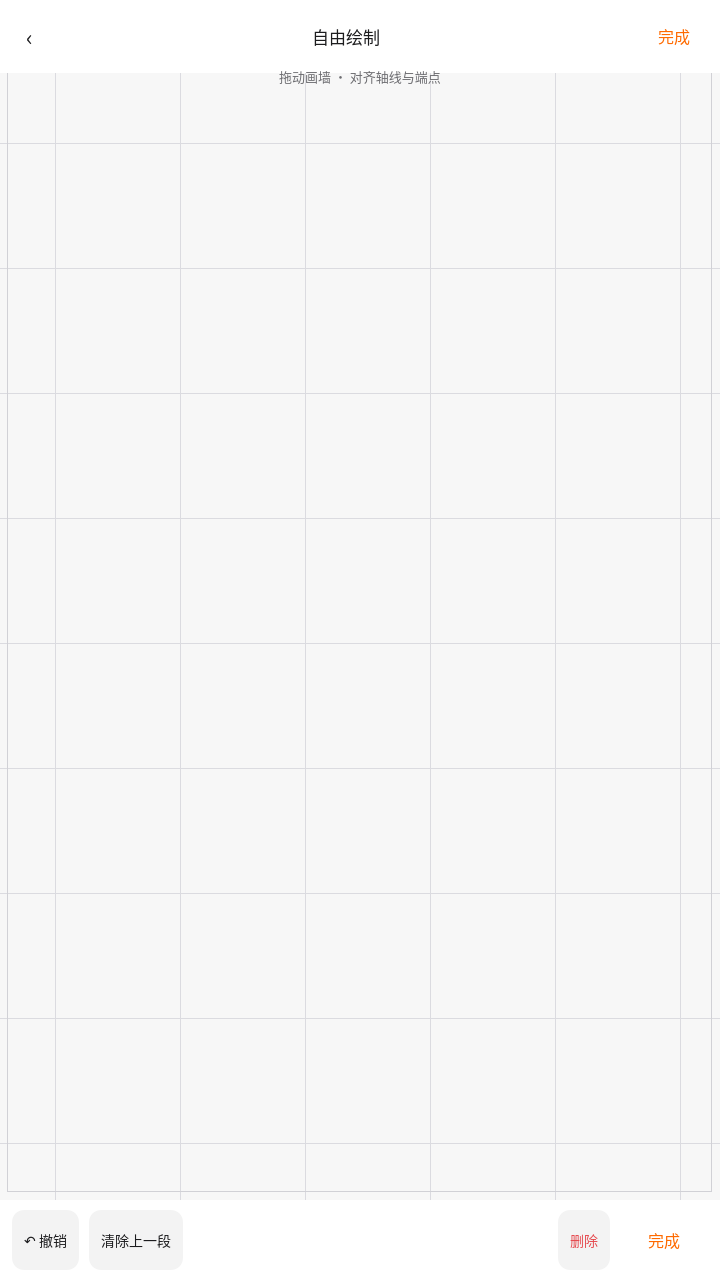
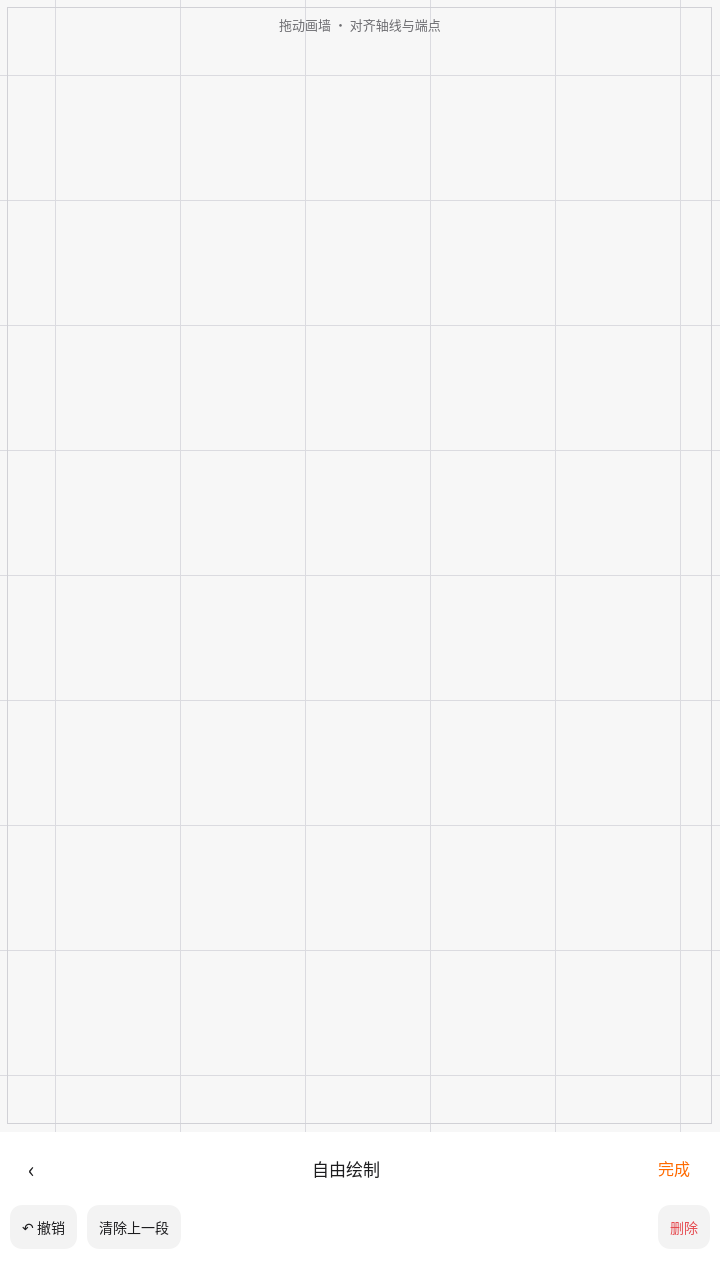
fix(draw): move free-draw toolbar to bottom
Put back, title, 完成, and draw tools in one bottom bar with nav
safe padding so the canvas is not blocked at the top.

diff --git a/docs/screenshots/free_draw/README.md b/docs/screenshots/free_draw/README.md
@@ -5,8 +5,8 @@
 | File | Screen |
 |------|--------|
 | [01_new_plan.png](./01_new_plan.png) | 新建户型 with 自由绘制 (no toast) |
-| [02_blank_canvas.png](./02_blank_canvas.png) | Empty draw mode |
-| [03_rectangle.png](./03_rectangle.png) | Closed 4000×3000 mm rectangle |
+| [02_blank_canvas.png](./02_blank_canvas.png) | Empty draw mode — chrome at the **bottom** |
+| [03_rectangle.png](./03_rectangle.png) | Closed 4000×3000 mm rectangle — same bottom bar |
 | [04_edit_2d.png](./04_edit_2d.png) | Walls in the 2D editor |
 | [05_edit_3d.png](./05_edit_3d.png) | Same walls in 3D |
 
